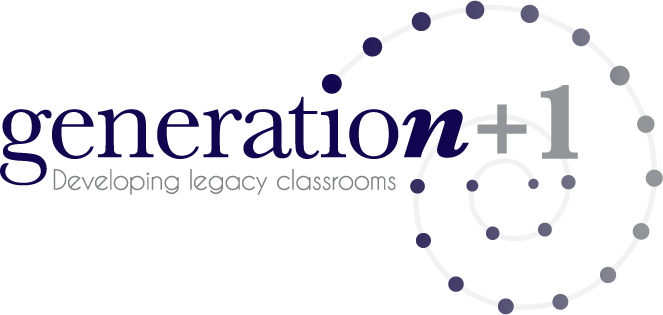
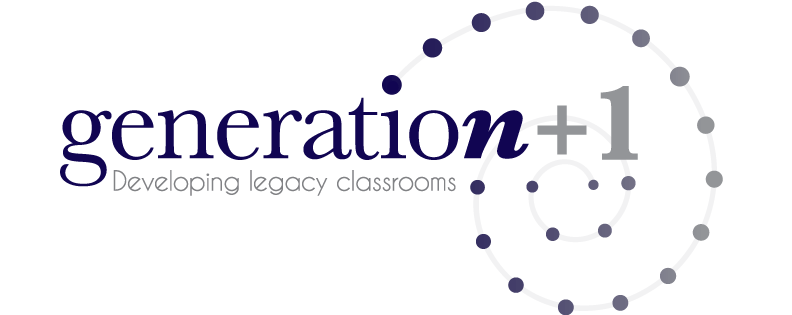
Before footer menu
dksfjas;lkf

diff --git a/custom.css b/custom.css
@@ -1,3 +1,13 @@
+.nopadding
+{
+	padding: 0;	
+}
+
+.img-responsive
+{
+	width: 100%;	
+}
+
 .navbar {
 	
 	
@@ -7,6 +17,9 @@
 	margin:10px;	
 }
 
+.navbar img {
+	margin-top:5px;	
+}
 .navbar li {
 	margin: 10px 15px 10px 5px;	
 }
@@ -18,8 +31,9 @@
 
 #navbarOverride {
 	background-color:white;
-	border-top:3px black solid;
-	border-bottom:3px black solid;	
+	border-top:5px black solid;
+	border-bottom:5px black solid;	
+	margin-bottom:0;
 }
 
 .navbar-default .navbar-nav>li>a {
@@ -27,8 +41,119 @@
 	font-size:16px;
 }
 
-.logo
-{
+.logo {
 	width:150px;
-	margin:0;	
+	margin:20px 0 0 0;	
 }
+
+.header_picture {
+    overflow:hidden;
+}
+
+.header_picture > .col-xs-12
+{
+	padding:0px;	
+}
+
+.header_picture img {
+  width:100%;
+
+}
+.slide {
+	padding-top: 200px;
+	background-size: cover;
+	padding-bottom:200px;	
+	background-position: center;
+}
+.image_text {
+	background:rgba(0,0,0,0.5);	
+	text-align:center;
+}
+.image_text p {
+	margin:0px;	
+}
+.image_title {
+	padding-top:10px;
+	font-size:48px;
+	color:white;
+
+}
+
+.image_subtext {
+	font-size:30px;
+	color:white;	
+	margin-bottom: 10px;
+}
+.image_button {
+	height:1px;
+}
+
+.btn {
+	color:white;
+	font-size:16px;
+	border-radius: 30px;
+    background: #1C1B41;
+    padding: 18px; 
+    width: 200px;
+    height: 60px; 
+	margin-bottom:15px;	
+	border:none;
+	
+}
+
+.button_text a:visited{
+	color:white;
+}
+.glyphiconarea {
+	background-color:#cccccc;
+	padding:50px 20px 50px 20px;
+	text-align:center;
+}
+.glyphiconarea img {
+	padding-top: 20px;	
+}
+
+.glyphicon_title {
+	padding:30px 0 0 0;
+	font-size:18px;
+	font-style:oblique;
+}
+
+.home_header {
+	margin:30px 0 30px 0;
+	text-align:center;	
+}
+
+.home_header_title {
+	font-size:40px;
+	display: inline-block;
+	padding: 0 30px;
+	position: relative;
+}
+.home_header_subtitle {
+	font-size:24px;
+	color:grey;
+}
+
+
+
+.home_header_title:before,
+.home_header_title:after {
+  background: black;
+  content: "";
+  display: block;
+  height: 5px;
+  position: absolute;
+    top: 50%;
+  width: 500%;
+}
+
+.home_header_title:before {
+  right: 100%;
+}
+
+.home_header_title:after {
+  left: 100%;
+}
+
+

diff --git a/style.css b/style.css
@@ -271,8 +271,7 @@ select,
 textarea {
 	color: #000000;
 	font-family: "Raleway" ,sans-serif;
-	font-size: 18px;
-	font-size: 1rem;
+	
 	line-height: 1.5;
 }
 

diff --git a/functions.php b/functions.php
@@ -150,3 +150,108 @@ function bootstrapScripts() {
 	wp_enqueue_script('bootstrapjsmain_footer', get_bloginfo('stylesheet_directory') . '/bootstrap/js/bootstrap.min.js', '', '', true);
 }
 add_action( 'wp_enqueue_scripts', 'bootstrapScripts',0 );
+
+function templateStuff(){
+	// check if the flexible content field has rows of data
+	if( have_rows('element_creator') ):
+	
+		// loop through the rows of data
+		while ( have_rows('element_creator') ) : the_row();
+	
+			// check current row layout
+			//////////////////////////////////
+			//Header Picture
+			//////////////////////////////////
+			if( get_row_layout() == 'header_picture' ):
+				echo '<div class="header_picture container-fluid nopadding">';
+				
+					echo '<div class="col-xs-12">';
+						// display a sub field value
+						$image = get_sub_field('image');
+						if( !empty($image) ): ?>
+						<div class="slide" style="background-image: url(<?php echo $image['url']; ?>">
+						<div class="image_text">
+							<?php 
+							echo '<div class="image_title">';	
+							echo get_sub_field('image_text');
+							echo '</div>';	
+							echo '<div class="image_subtext">';						
+							echo get_sub_field('image_subtext');
+							echo '</div>';
+							
+							echo '<div class="container-fluid button_text">';
+							echo '<a href="'.get_sub_field('header_button').'" class="btn btn-primary">'.get_sub_field('button_text').'</a>';
+							echo '</div>';
+							
+							?>
+						</div>
+						</div>
+						<?php endif;
+						
+						
+						
+					echo '</div>';
+								
+				echo '</div>';
+			//////////////////////////////////
+			//Glyphicons
+			//////////////////////////////////
+			elseif( get_row_layout() == 'glyphicon_area' ):
+				
+				echo '<div class="glyphiconarea">';//Give styles to the glyphicon area
+				
+				echo '<div class="container">';
+				
+				if( have_rows('glyphicon_repeater') ):
+						
+					// loop through the rows of data
+					while ( have_rows('glyphicon_repeater') ) : the_row();
+						
+						echo '<div class="col-xs-12 col-md-4">';
+						// display a sub field value
+						
+						$image = get_sub_field('image');
+
+						if( !empty($image) ): ?>
+
+						<img src="<?php echo $image['url']; ?>" alt="<?php echo $image['alt']; ?>" />
+
+						<?php endif;
+						echo '<div class="glyphicon_title">';
+						echo get_sub_field('title');
+						echo '</div>';
+						echo get_sub_field('description');
+						
+						echo '</div>';
+				
+					endwhile;
+				endif;
+				
+				echo '</div>';
+				echo '</div>';
+			//////////////////////////////////
+			//Home Header
+			//////////////////////////////////
+			elseif( get_row_layout() == 'home_header'):
+				echo '<div class="home_header">';
+					echo '<div class="container-fluid nopadding">';
+						echo '<div class="homearound">';
+						echo '<div class="home_header_title">';
+							echo get_sub_field('title');
+						echo '</div>';
+						echo '<div class="home_header_subtitle">';
+							echo get_sub_field('subtitle');
+						echo '</div>';
+						echo '</div>';
+					echo '</div>';
+				echo '</div>';
+					
+						
+				
+			endif;
+			
+	
+		endwhile;
+	
+	endif;
+}

diff --git a/footer.php b/footer.php
@@ -15,10 +15,11 @@
 
 	<footer id="colophon" class="site-footer" role="contentinfo">
 		<div class="site-info">
-			<a href="<?php echo esc_url( __( 'https://wordpress.org/', 'gen1' ) ); ?>"><?php printf( esc_html__( 'Proudly powered by %s', 'gen1' ), 'WordPress' ); ?></a>
-			<span class="sep"> | </span>
-			<?php printf( esc_html__( 'Theme: %1$s by %2$s.', 'gen1' ), 'gen1', '<a href="http://dosterz97.github.io" rel="designer">Zachary Doster</a>' ); ?>
+		
+			<span class="sep"> </span>
+			<?php printf( esc_html__( '%1$s by %2$s.', 'gen1' ), 'gen1', '<a href="http://dosterz97.github.io" rel="designer">Zachary Doster</a>' ); ?>
 		</div><!-- .site-info -->
+
 	</footer><!-- #colophon -->
 </div><!-- #page -->
 

diff --git a/page.php b/page.php
@@ -16,7 +16,9 @@ get_header(); ?>
 
 	<div id="primary" class="content-area">
 		<main id="main" class="site-main" role="main">
-
+			<?php
+				templateStuff();
+			?>
 			<?php
 			while ( have_posts() ) : the_post();
 
@@ -34,5 +36,5 @@ get_header(); ?>
 	</div><!-- #primary -->
 
 <?php
-get_sidebar();
+//get_sidebar();
 get_footer();
